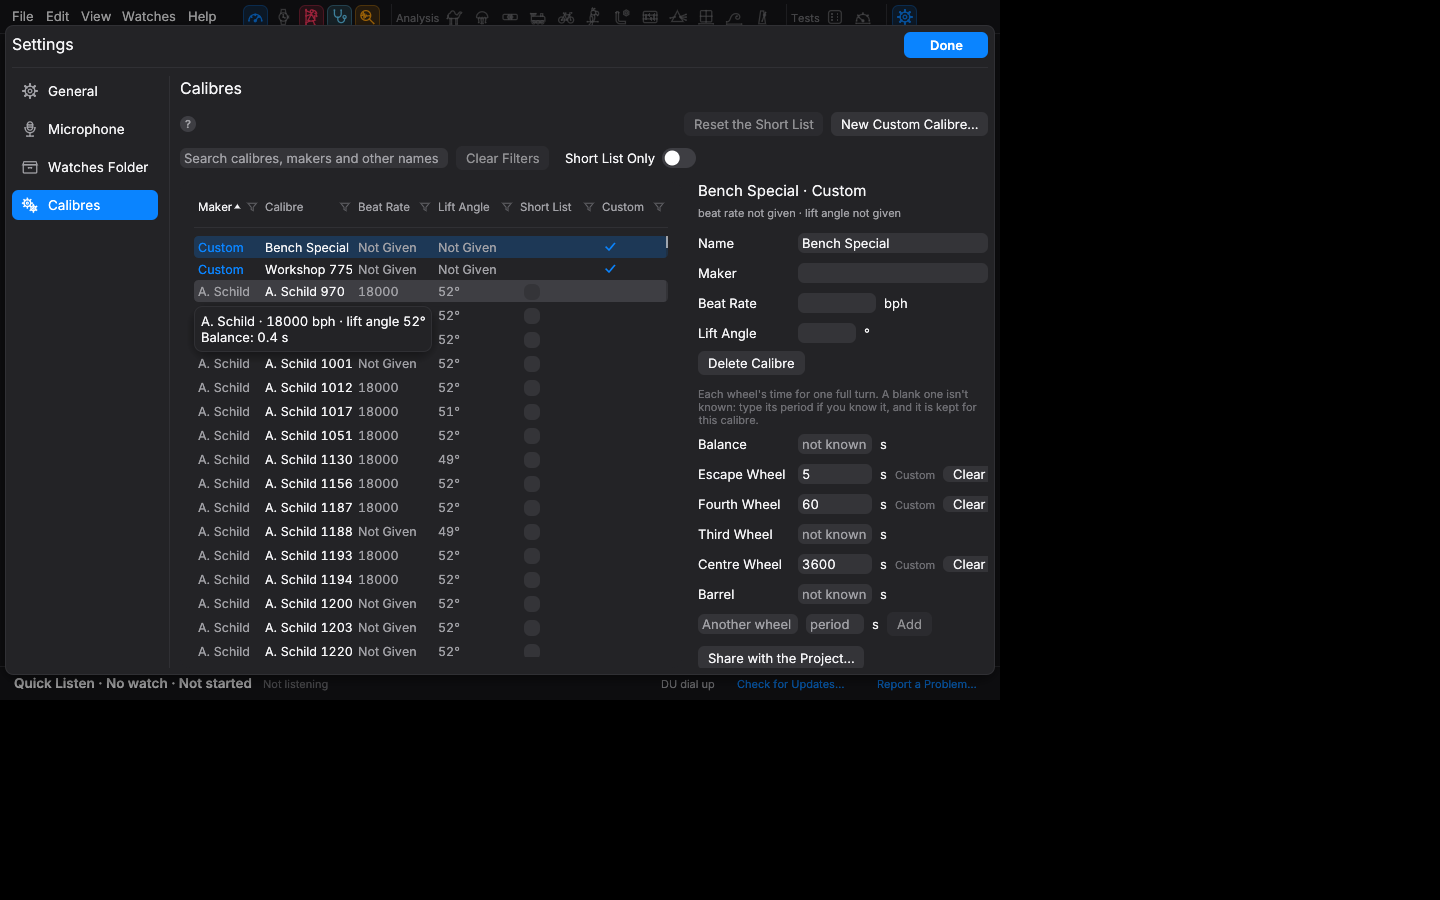
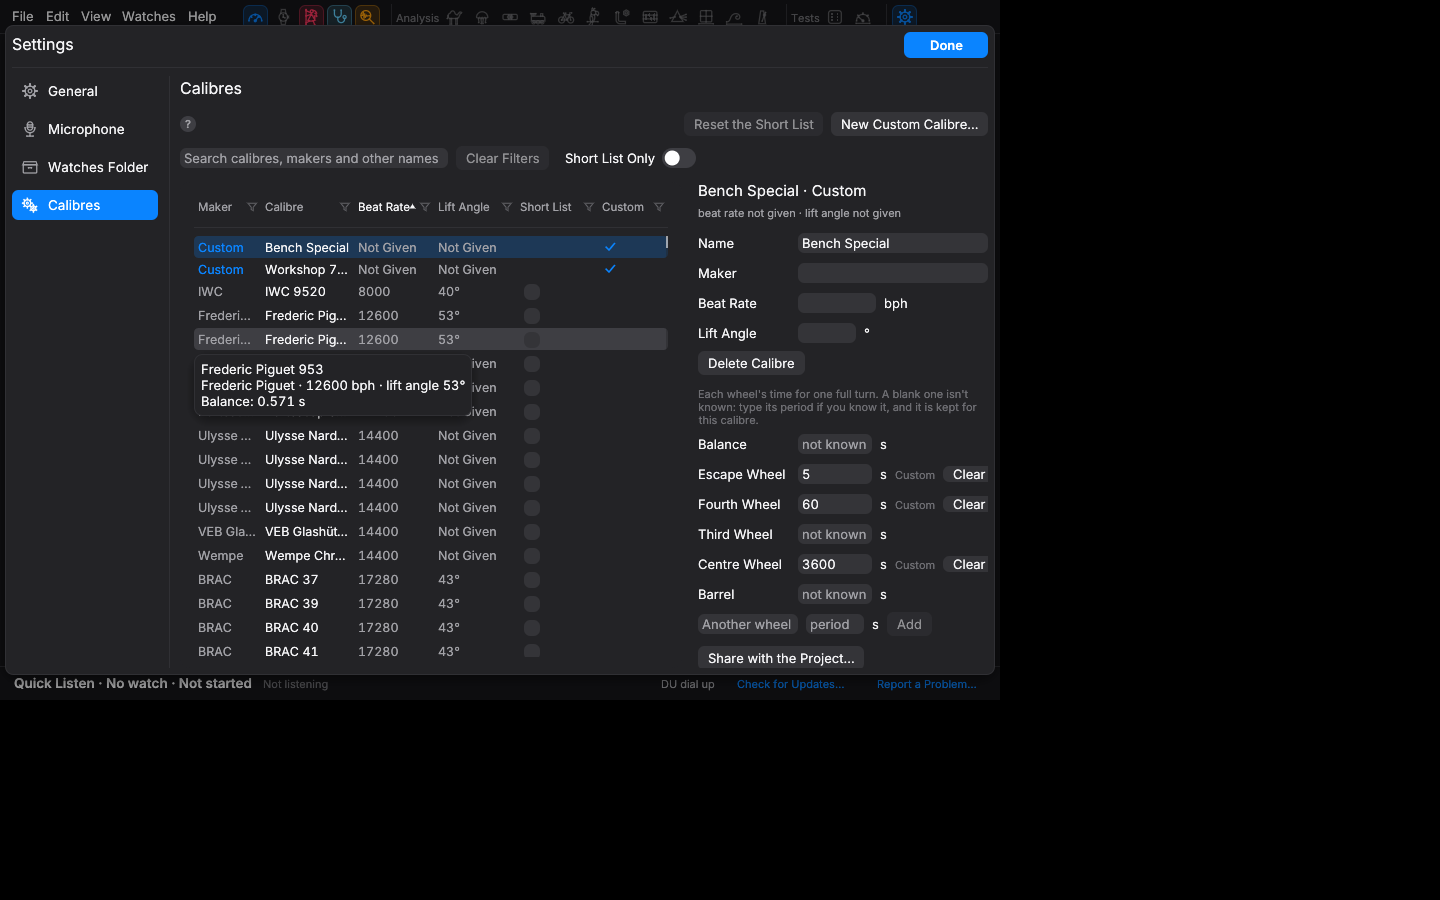
Calibre table: cut long names with "…", name each row in its hover
Claude-Session: https://claude.ai/code/session_01GsSg6RBnTb5YLpmgbJGamZ

Changed region(s): [[0.125, 0.3111, 0.4688, 0.7467], [0.25, 0.2178, 0.2812, 0.2489]]

diff --git a/crates/timegrapher-app/src/calibre_ui.rs b/crates/timegrapher-app/src/calibre_ui.rs
@@ -1240,9 +1240,14 @@ impl Calibres {
                         Col::Maker if e.is_custom() => pal.accent,
                         _ => pal.text_secondary,
                     };
-                    let galley =
-                        ui.painter()
-                            .layout_no_wrap(text, egui::FontId::proportional(12.5), ink);
+                    // Too long for its column: cut with "…", the whole
+                    // of it in the row's hover.
+                    let mut job = egui::text::LayoutJob::single_section(
+                        text,
+                        egui::TextFormat::simple(egui::FontId::proportional(12.5), ink),
+                    );
+                    job.wrap = egui::text::TextWrapping::truncate_at_width(widths[i] - 8.0);
+                    let galley = ui.painter().layout_job(job);
                     let at = egui::pos2(cell.left() + 4.0, cell.center().y - galley.size().y / 2.0);
                     ui.painter()
                         .with_clip_rect(cell.shrink2(Vec2::new(2.0, 0.0)))
@@ -1506,7 +1511,8 @@ fn label(e: Entry<'_>) -> String {
 
 /// What the list says about a calibre, for its line in the menu.
 fn hint(e: Entry<'_>) -> String {
-    let mut t = summary(e);
+    // The name first: the table may cut it short.
+    let mut t = format!("{}\n{}", e.name(), summary(e));
     if let Entry::Table(c) = e {
         if !c.family.is_empty() {
             t += &format!("\nAlso: {}", c.family.join(", "));
